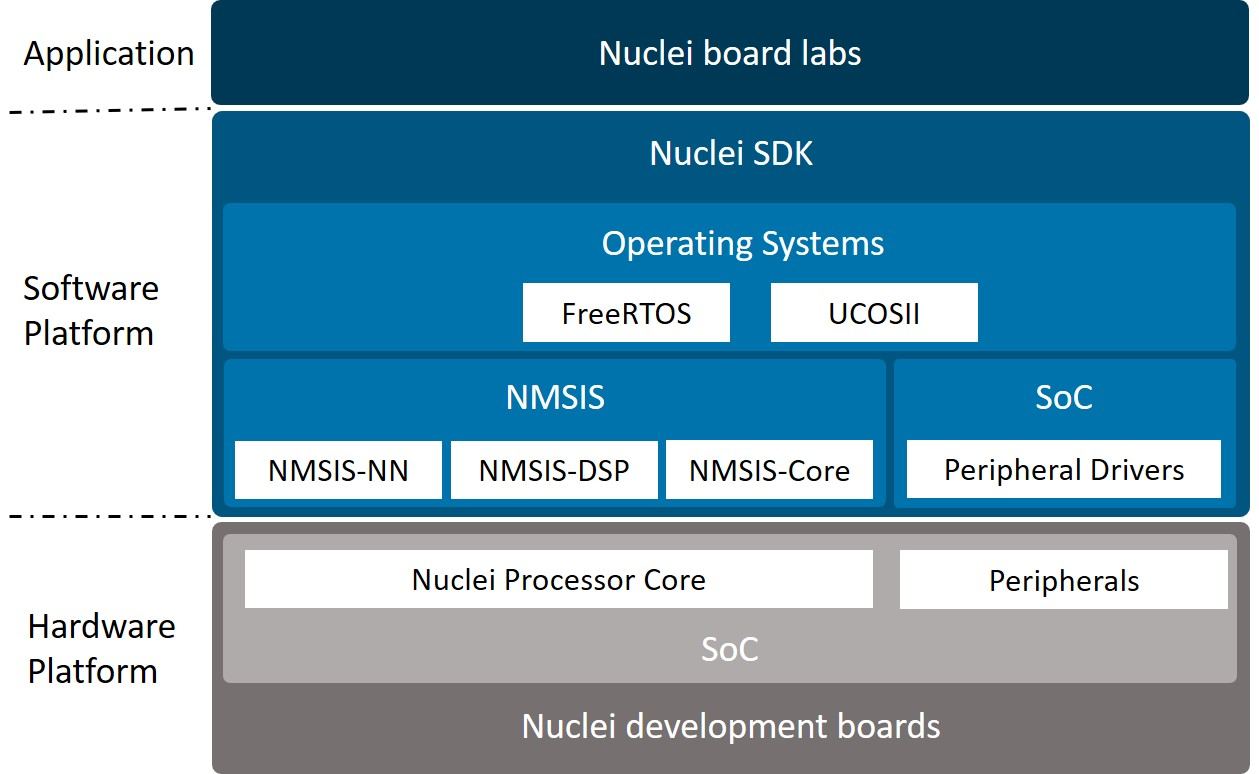
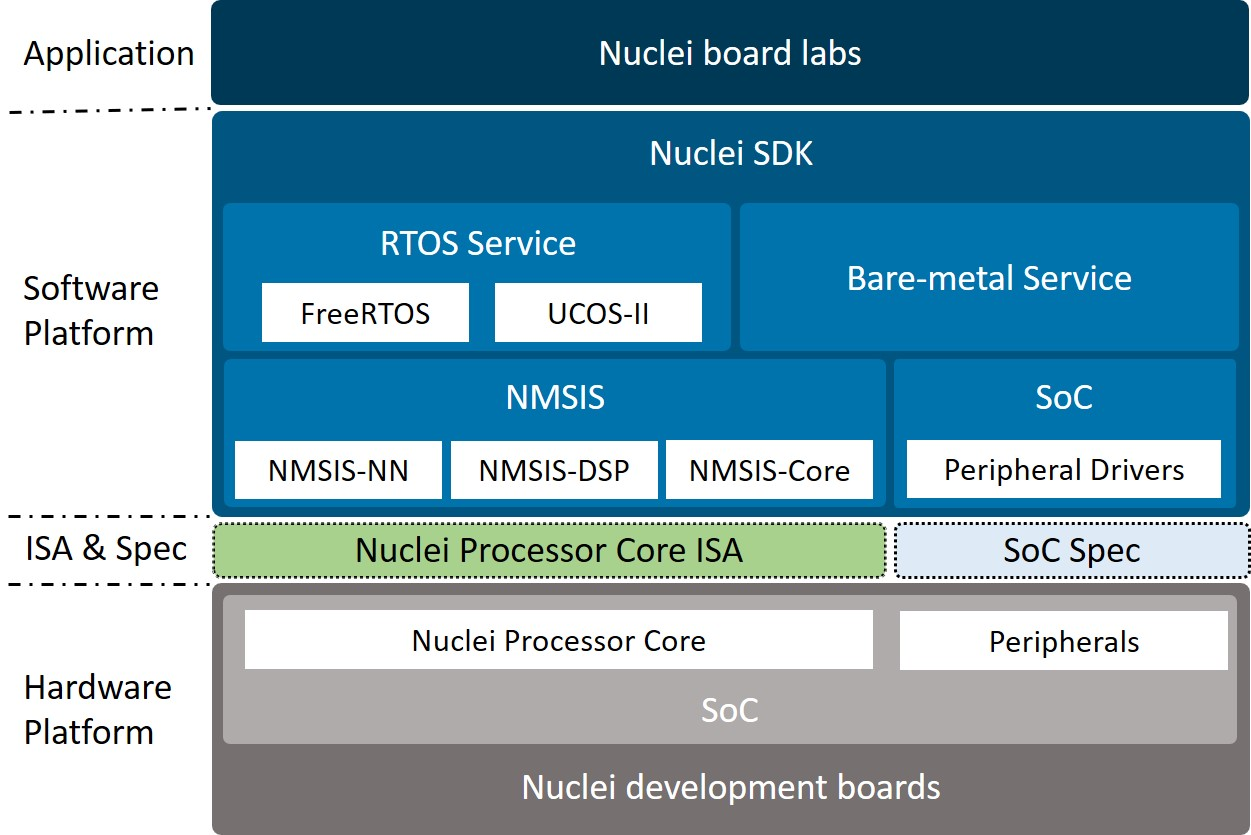
update overview and lab2_1, correct the make command used in sdk

diff --git a/doc/source/labs/rvstar/level2/lab2_1.rst b/doc/source/labs/rvstar/level2/lab2_1.rst
@@ -1,4 +1,129 @@
 .. _lab2_1:
 
-Benchmark Tests
-===============
+Benchmark Test
+==============
+
+**Purpose**
+
+- To know what benchmark for processor is
+- To know how to run Dhrystone benchmark test
+
+**Requirements**
+  
+The following hardware and source codes are required:
+
+* PC host
+* Nuclei board (|rv_star|)
+* USB Type-C cable
+* ``nuclei-sdk/board-labs/rvstar/running_red`` 
+
+**Content**
+
+- A brief introduction of benchmark for processor.
+- Based on |nuclei_sdk|, run the Dhrystone benchmark test.   
+    
+**Principles**
+
+What is benchmark for processor?
+
+- Running an executable program in order to evaluate the performance of processor 
+- Benchmark is usually written in a standard high-level program language (such as C/C++), and tests are developed that allow comparison of different hardware architectures
+- Benchmark score is the most direct reflection of performance and widely used in competiveness evaluation and product engagement
+
+There are many benchmarks in the field of processor, here we just take Dhrystone (one of most common in the embedded processor field) as an example to run. About the brief introduction of Dhrystone, please refer to this `wiki docs <https://en.wikipedia.org/wiki/Dhrystone>`_.
+
+The code for this lab is located in ``nuclei-sdk/application/baremetal/benchmark/dhrystone``.
+
+In the code, the benchmark score will be displayed in the UART teminal.
+
+
+**Steps**
+
+1. Connect |rv_star| and your computer with the USB Type-C cable, and open UART terminal.
+
+2. Compile and run the ``nuclei-sdk/application/baremetal/benchmark/dhrystone`` example.
+
+  Using the following commands:
+
+  .. code-block:: console
+
+     cd /nuclei-sdk/application/baremetal/benchmark/dhrystone
+     make SOC=gd32vf103 BOARD=gd32vf103v_rvstar upload
+
+3. Check the result in UART terminal.
+
+  .. code-block:: console
+
+      Nuclei SDK Build Time: Feb 13 2020, 20:06:06
+      Download Mode: FLASHXIP
+      CPU Frequency 109336633 Hz
+
+      Dhrystone Benchmark, Version 2.1 (Language: C)
+
+      Program compiled without 'register' attribute
+
+      Please give the number of runs through the benchmark:
+      Execution starts, 1600000 runs through Dhrystone
+      Execution ends
+
+      Final values of the variables used in the benchmark:
+
+      Int_Glob:            5
+              should be:   5
+      Bool_Glob:           1
+              should be:   1
+      Ch_1_Glob:           A
+              should be:   A
+      Ch_2_Glob:           B
+              should be:   B
+      Arr_1_Glob[8]:       7
+              should be:   7
+      Arr_2_Glob[8][7]:    1600010
+              should be:   Number_Of_Runs + 10
+      Ptr_Glob->
+        Ptr_Comp:          536883352
+              should be:   (implementation-dependent)
+        Discr:             0
+              should be:   0
+        Enum_Comp:         2
+              should be:   2
+        Int_Comp:          17
+              should be:   17
+        Str_Comp:          DHRYSTONE PROGRAM, SOME STRING
+              should be:   DHRYSTONE PROGRAM, SOME STRING
+      Next_Ptr_Glob->
+        Ptr_Comp:          536883352
+              should be:   (implementation-dependent), same as above
+        Discr:             0
+              should be:   0
+        Enum_Comp:         1
+              should be:   1
+        Int_Comp:          18
+              should be:   18
+        Str_Comp:          DHRYSTONE PROGRAM, SOME STRING
+              should be:   DHRYSTONE PROGRAM, SOME STRING
+      Int_1_Loc:           5
+              should be:   5
+      Int_2_Loc:           13
+              should be:   13
+      Int_3_Loc:           7
+              should be:   7
+      Enum_Loc:            1
+              should be:   1
+      Str_1_Loc:           DHRYSTONE PROGRAM, 1'ST STRING
+              should be:   DHRYSTONE PROGRAM, 1'ST STRING
+      Str_2_Loc:           DHRYSTONE PROGRAM, 2'ND STRING
+              should be:   DHRYSTONE PROGRAM, 2'ND STRING
+
+       (*) User_Cycle for total run through Dhrystone with loops 1600000:
+      726400102
+             So the DMIPS/MHz can be caculated by:
+             1000000/(User_Cycle/Number_Of_Runs)/1757 = 1.253639 DMIPS/MHz
+
+**Exercises**
+
+Try to create you own application to run more other benchmarks in |nuclei_core|.
+
+.. note::
+
+  You can find more tests in ``nuclei-sdk/application``, have a try.

diff --git a/doc/source/overview/overview.rst b/doc/source/overview/overview.rst
@@ -20,7 +20,9 @@ The architecture of Nuclei Board Labs are shown in the block diagram below.
 
    Architecture of Nuclei Board Labs
 
-The labs are developed based on the `Nuclei Software Development Kit (Nuclei SDK) <https://github.com/Nuclei-Software/nuclei-sdk>`__ which is an open software platform to facilitate the development of embedded systems based on |nuclei_core|. 
+The labs are developed based on the `Nuclei Software Development Kit (Nuclei SDK) <https://github.com/Nuclei-Software/nuclei-sdk>`__ which is an open software platform to facilitate the software development of systems based on |nuclei_core|. 
+
+In |nuclei_sdk|, the `Nuclei MCU Software Interface Standard (NMSIS) <https://github.com/Nuclei-Software/NMSIS>`__  is a vendor-independent hardware abstraction layer for micro-controllers that are based on |nuclei_core|.
 
 This handbook only introduces how to run the applications in Nuclei board labs, if you want to get more details about |nuclei_sdk| and |nuclei_core|, please click the links in the following table to get the corresponding online docs.
 
@@ -41,7 +43,7 @@ This handbook only introduces how to run the applications in Nuclei board labs, 
 
 
 .. note::
-    As different SoC has different peripherals, so about the details of SoC peripherals, please refer to the specified SoC reference mannual.
+    As different SoCs has different peripherals, so about the details of SoC peripherals, please refer to the specified SoC reference mannual.
 
 
 This handbook includes a series of labs (more labs will be added in the future), which are roughly classified into two levels:

diff --git a/doc/source/labs/rvstar/level1/lab1_2.rst b/doc/source/labs/rvstar/level1/lab1_2.rst
@@ -6,7 +6,7 @@ SoC Peripheral: Timer
 **Purpose**
 
 - To get familar with the peripheral of |gd_mcu|: Timer
-- To learn how to program peripheral registers to control the MCU Timer
+- To know how to program peripheral registers to control the MCU Timer
 
 **Requirements**
 
@@ -59,7 +59,7 @@ The program flow is shown below: (TBD)
     .. code-block:: console
 
        cd /nuclei-sdk/board-labs/rvstar/timer_pwm
-       make BOARD=rvstar run
+       make SOC=gd32vf103 BOARD=gd32vf103v_rvstar upload
 
 * |ses|
 

diff --git a/doc/source/labs/rvstar/level1/lab1_1.rst b/doc/source/labs/rvstar/level1/lab1_1.rst
@@ -61,7 +61,7 @@ In the code, the number of on-board User Key(PA0-WKUP) pressed is counted, the s
     .. code-block:: console
 
        cd /nuclei-sdk/board-labs/rvstar/running_red
-       make BOARD=rvstar run
+       make SOC=gd32vf103 BOARD=gd32vf103v_rvstar upload
 
 * |ses|
 

diff --git a/doc/source/labs/rvstar/level1/lab1_4.rst b/doc/source/labs/rvstar/level1/lab1_4.rst
@@ -87,7 +87,7 @@ The program flow is shown below:
     .. code-block:: console
 
        cd /nuclei-sdk/board-labs/rvstar/nesting_of_interrupts
-       make BOARD=rvstar run
+       make SOC=gd32vf103 BOARD=gd32vf103v_rvstar upload
 
 * |ses|
 

diff --git a/doc/source/labs/rvstar/level1/lab1_3.rst b/doc/source/labs/rvstar/level1/lab1_3.rst
@@ -90,7 +90,7 @@ The program flow is shown below:
     .. code-block:: console
 
        cd /nuclei-sdk/board-labs/rvstar/exti_key_interrupt
-       make BOARD=rvstar run
+       make SOC=gd32vf103 BOARD=gd32vf103v_rvstar upload
 
 * |ses|
 
